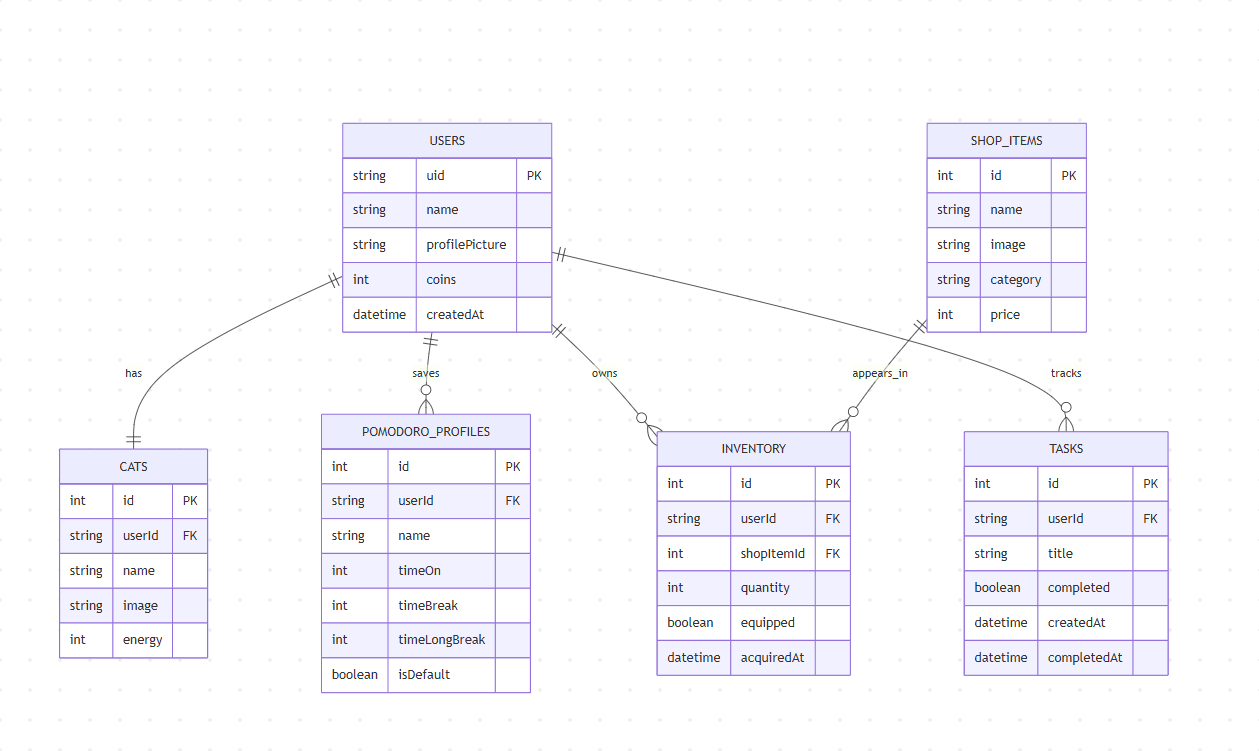
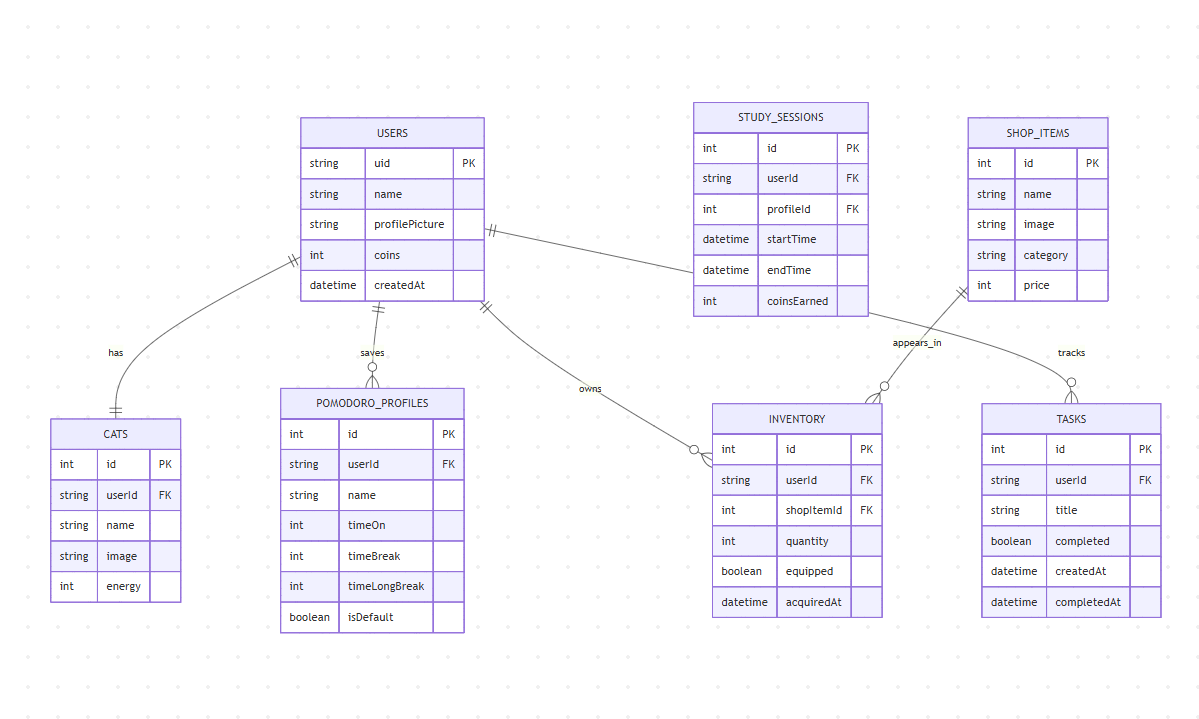
chore: updated ERD to include study_sessions table

diff --git a/planning/entity_relationship_diagram.md b/planning/entity_relationship_diagram.md
@@ -24,6 +24,7 @@ Reference the Creating an Entity Relationship Diagram final project guide in the
 
 <img src="./assets/ERD.png"/>
 
+---
 ```
 erDiagram
   USERS {
@@ -50,6 +51,15 @@ erDiagram
     int timeBreak
     int timeLongBreak
     boolean isDefault
+  }
+
+  STUDY_SESSIONS {
+    int id PK
+    string userId FK
+    int profileId FK
+    datetime startTime
+    datetime endTime
+    int coinsEarned
   }
 
   SHOP_ITEMS {
